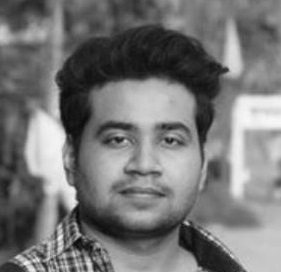
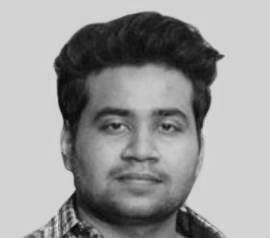
profile-img-done

diff --git a/src/Components/Banner/Banner.js b/src/Components/Banner/Banner.js
@@ -7,13 +7,13 @@ const Banner = () => {
   return (
     <div>
       <Container className="py-5">
-        <Row>
-          <Col sm={4}>
+        <Row className="align-items-center">
+          <Col sm={6}>
             <div>
               <img className="profile-img" src={profile} alt="" />
             </div>
           </Col>
-          <Col sm={8} className="text-dark">
+          <Col sm={6} className="text-dark">
             <h1 className="text-uppercase">Junior Web Developer</h1>
             <p>
               Lorem, ipsum dolor sit amet consectetur adipisicing elit. Itaque

diff --git a/src/Components/Banner/Banner.css b/src/Components/Banner/Banner.css
@@ -1,6 +1,7 @@
 .profile-img {
-    height: 300px;
-    width: 300px;
-    border-radius: 300px;
-    border: 40px solid white;
+    height: 350px;
+    width: 350px;
+    border-radius: 350px;
+    border: 15px solid white;
+    box-shadow: rgba(0, 0, 0, 0.35) 0px 5px 15px;
 }
